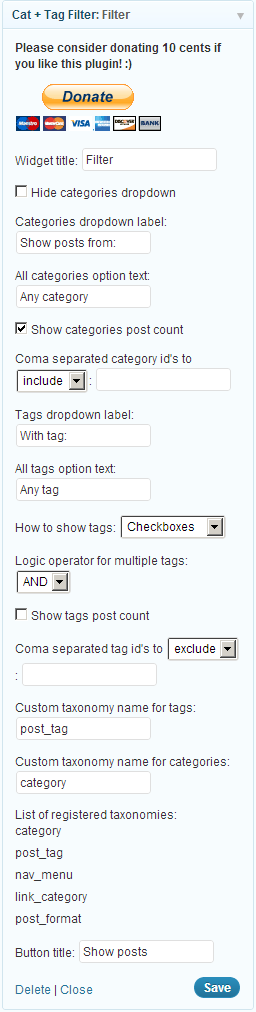
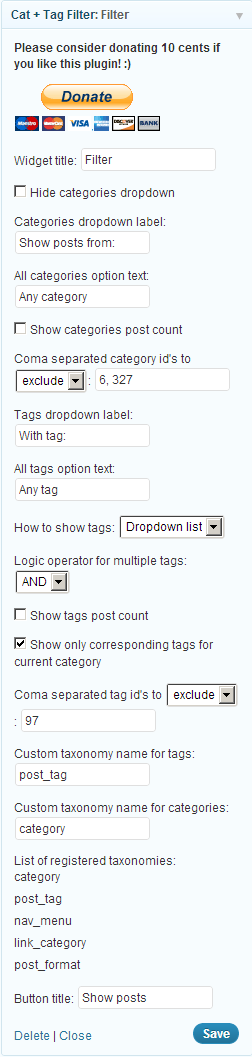
git-svn-id: https://plugins.svn.wordpress.org/cat-tag-filter-widget/trunk@609235 b8457f37-d9ea-0310-8a92-e5e31aec5664

Changed region(s): [[0.0, 0.0, 0.9444, 1.0], [0.75, 0.0, 1.0, 1.0]]

diff --git a/cat-tag-filter.php b/cat-tag-filter.php
@@ -4,7 +4,7 @@ Plugin Name: Cat + Tag Filter
 Plugin URI: http://wordpress.org/extend/plugins/cat-tag-filter-widget/
 Description: This plugin adds a widget to your WordPress site that allows your visitors to filter posts by category and tag.
 Author: Ajay Verma
-Version: 0.8.4
+Version: 0.8.5
 Author URI: http://ajayver.com/ 
 */
 /*  Copyright 2011  Verma Ajay  (email : ajayverma1986@gmail.com)
@@ -90,10 +90,11 @@ function tag_options($type){ //get tags
   global $ctf_options, $current_tax;
 	$there_are_tags = true;
 	$args = '';
-	if($current_tax['cats'][0]){
+	if($current_tax['cats'][0] && $ctf_options['corresponding_tags'] == 1){
 
 		$cat_args = array(
-			'cat'      => $current_tax[cats][0]
+			'cat'      => $current_tax[cats][0],
+			'posts_per_page' => -1
 		);
 		query_posts($cat_args);
 		if(have_posts()): while (have_posts()) : the_post();
@@ -101,6 +102,7 @@ function tag_options($type){ //get tags
 			if($all_tag_objects){	
 				foreach($all_tag_objects as $tag) {
 					if($tag->count > 0) $all_tag_ids[] = $tag->term_id;
+					echo '<!--' . $tag->term_id . '-->';
 				}
 			}
 		endwhile;
@@ -124,6 +126,8 @@ function tag_options($type){ //get tags
 					if (!in_array($tag, $exclude)) $include .= $tag . ',';
 				}
 			}
+			
+			if ($include == '') $there_are_tags = false;
 		
 		}
 		else {
@@ -132,6 +136,7 @@ function tag_options($type){ //get tags
 			}
 		}
 		$include = substr($include, 0, -1);
+		
 		
 		$args['include'] = $include;
 		}
@@ -148,8 +153,17 @@ function tag_options($type){ //get tags
 
 
 		
-		
-		
+	echo "<!--";	
+	echo "\n";
+	echo  $ctf_options['clude_tags'] . ' tags: ' . $ctf_options['exclude_tags'] . "\n";
+	echo  $ctf_options['clude_cats'] . ' cats: ' . $ctf_options['exclude_cats'] . "\n";
+	echo "current category: " . $current_tax['cats'][0] . "\n";
+	echo 'corresponding tags for this category: ';
+	print_r($all_tag_ids);
+	echo "\n";
+	echo 'Final tags to include: ';
+	print_r($args);	
+	echo "-->";	
   if ($there_are_tags) $tags = get_terms($ctf_options['tag_tax'],$args);
 
   
@@ -233,7 +247,7 @@ class cat_tag_filter extends WP_Widget {
   }
   /** @see WP_Widget::widget */
   function widget($args, $instance) {	
-	  $defaults = array( 'title' => __('Filter', 'cat-tag-filter'), 'button_title' => __('Show posts', 'cat-tag-filter'), 'cat_list_hide' => false,  'cat_list_label' => __('Show posts from:', 'cat-tag-filter'), 'tag_list_label' => __('With tag:', 'cat-tag-filter'), 'all_cats_text' => __('Any category', 'cat-tag-filter'), 'all_tags_text' => __('Any tag', 'cat-tag-filter'), 'cats_count' => 1, 'tags_count' => 0, 'tag_logic' => 1, 'tag_type' => 0, 'exclude_tags' => '', 'exclude_cats' => '', 'clude_tags' => 'exclude', 'clude_cats' => 'exclude', 'tag_tax' => 'post_tag', 'category_tax' => 'category');
+	  $defaults = array( 'title' => __('Filter', 'cat-tag-filter'), 'button_title' => __('Show posts', 'cat-tag-filter'), 'cat_list_hide' => false,  'cat_list_label' => __('Show posts from:', 'cat-tag-filter'), 'tag_list_label' => __('With tag:', 'cat-tag-filter'), 'all_cats_text' => __('Any category', 'cat-tag-filter'), 'all_tags_text' => __('Any tag', 'cat-tag-filter'), 'corresponding_tags' => '1', 'cats_count' => 1, 'tags_count' => 0, 'tag_logic' => 1, 'tag_type' => 0, 'exclude_tags' => '', 'exclude_cats' => '', 'clude_tags' => 'exclude', 'clude_cats' => 'exclude', 'tag_tax' => 'post_tag', 'category_tax' => 'category');
     $instance = wp_parse_args( (array) $instance, $defaults );
     extract( $args );
     global $ctf_options;
@@ -245,6 +259,7 @@ class cat_tag_filter extends WP_Widget {
     $ctf_options['all_cats_text'] = apply_filters('widget_title', $instance['all_cats_text']);
     $ctf_options['all_tags_text'] = apply_filters('widget_title', $instance['all_tags_text']);
     $ctf_options['cats_count'] =  $instance['cats_count'];
+	$ctf_options['corresponding_tags'] =  $instance['corresponding_tags'];
     $ctf_options['tags_count'] =  $instance['tags_count'];
 	$ctf_options['tag_logic'] =  $instance['tag_logic'];
 	$ctf_options['tag_type'] =  $instance['tag_type'];
@@ -270,6 +285,7 @@ class cat_tag_filter extends WP_Widget {
   	$instance['all_cats_text'] = strip_tags($new_instance['all_cats_text']);
   	$instance['all_tags_text'] = strip_tags($new_instance['all_tags_text']);
   	$instance['cats_count'] = $new_instance['cats_count'];
+	$instance['corresponding_tags'] = $new_instance['corresponding_tags'];
   	$instance['tags_count'] = $new_instance['tags_count'];
 	$instance['tag_logic'] = $new_instance['tag_logic'];
 	$instance['tag_type'] = $new_instance['tag_type'];
@@ -283,7 +299,7 @@ class cat_tag_filter extends WP_Widget {
   }
   /** @see WP_Widget::form */
   function form($instance) {   
-    $defaults = array( 'title' => __('Filter', 'cat-tag-filter'), 'button_title' => __('Show posts', 'cat-tag-filter'), 'cat_list_hide' => false, 'cat_list_label' => __('Show posts from:', 'cat-tag-filter'), 'tag_list_label' => __('With tag:', 'cat-tag-filter'), 'all_cats_text' => __('Any category', 'cat-tag-filter'), 'all_tags_text' => __('Any tag', 'cat-tag-filter'), 'cats_count' => 1, 'tags_count' => 0, 'tag_logic' => 1, 'tag_type' => 0, 'exclude_tags' => '', 'exclude_cats' => '', 'clude_tags' => 'exclude', 'clude_cats' => 'exclude', 'tag_tax' => 'post_tag', 'category_tax' => 'category' );
+    $defaults = array( 'title' => __('Filter', 'cat-tag-filter'), 'button_title' => __('Show posts', 'cat-tag-filter'), 'cat_list_hide' => false, 'cat_list_label' => __('Show posts from:', 'cat-tag-filter'), 'tag_list_label' => __('With tag:', 'cat-tag-filter'), 'all_cats_text' => __('Any category', 'cat-tag-filter'), 'all_tags_text' => __('Any tag', 'cat-tag-filter'), 'corresponding_tags' => '1', 'cats_count' => 1, 'tags_count' => 0, 'tag_logic' => 1, 'tag_type' => 0, 'exclude_tags' => '', 'exclude_cats' => '', 'clude_tags' => 'exclude', 'clude_cats' => 'exclude', 'tag_tax' => 'post_tag', 'category_tax' => 'category' );
   	$instance = wp_parse_args( (array) $instance, $defaults ); 				
     ?>   
 	<p>
@@ -380,6 +396,12 @@ class cat_tag_filter extends WP_Widget {
         <?php _e('Show tags post count', 'cat-tag-filter'); ?> 
       </label>   
     </p>  
+	<p>        
+      <input type="checkbox" id="ctf-corresponding-tags" name="<?php echo $this->get_field_name('corresponding_tags'); ?>" value="1" <?php if ($instance['corresponding_tags'] == 1) echo "checked ";?>/>
+      <label for="ctf-corresponding-tags">
+        <?php _e('Show only corresponding tags for current category', 'cat-tag-filter'); ?> 
+      </label>   
+    </p> 
 	<p>    
       <label for="ctf-exclude_tags">
         <?php _e('Coma separated tag id\'s to ', 'cat-tag-filter'); ?><select name="<?php echo $this->get_field_name('clude_tags'); ?>" id="ctf-clude-tags" >   
